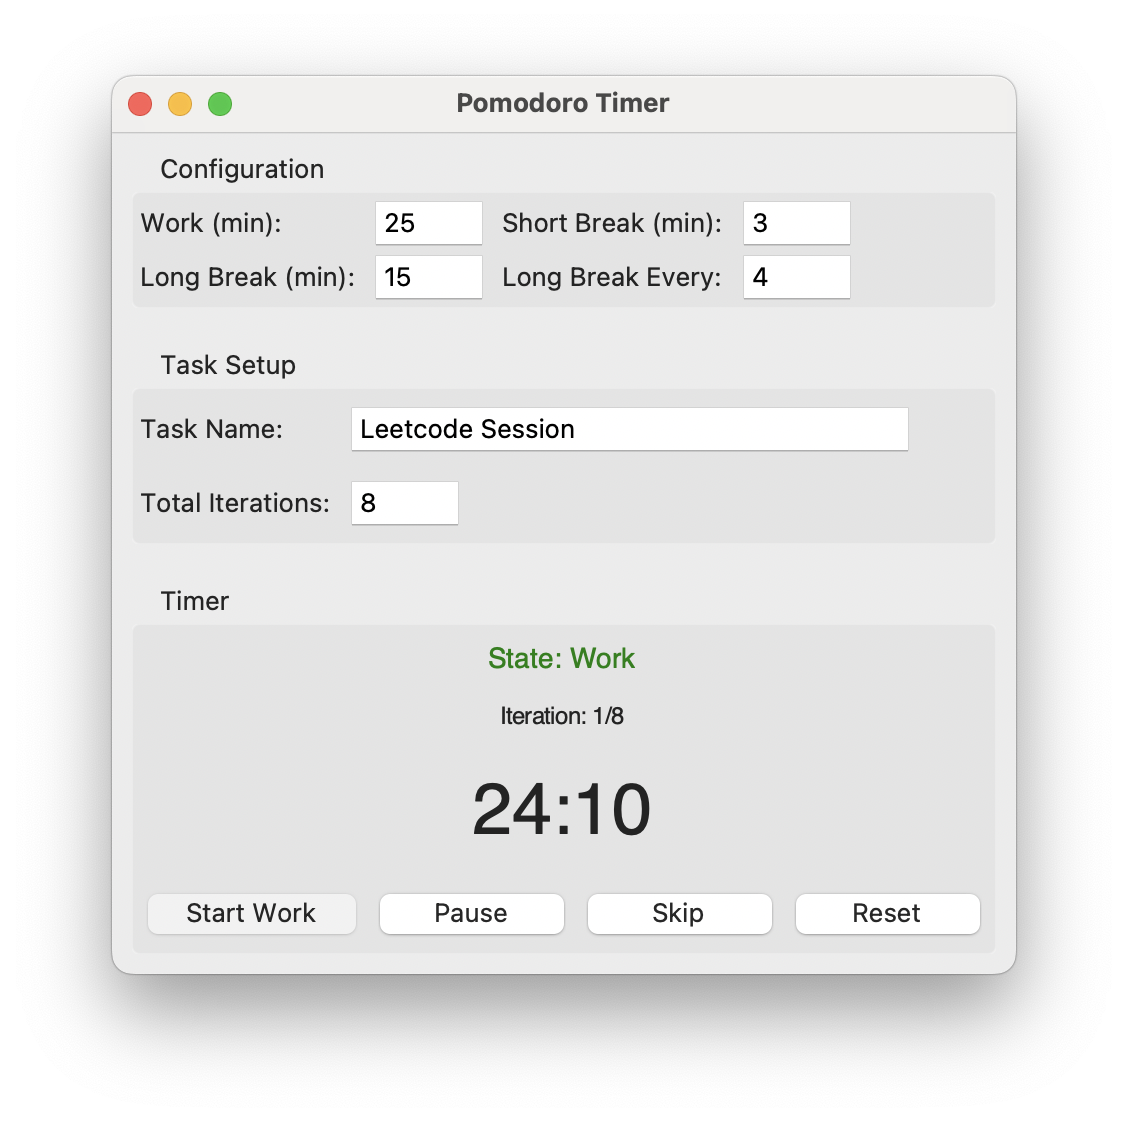
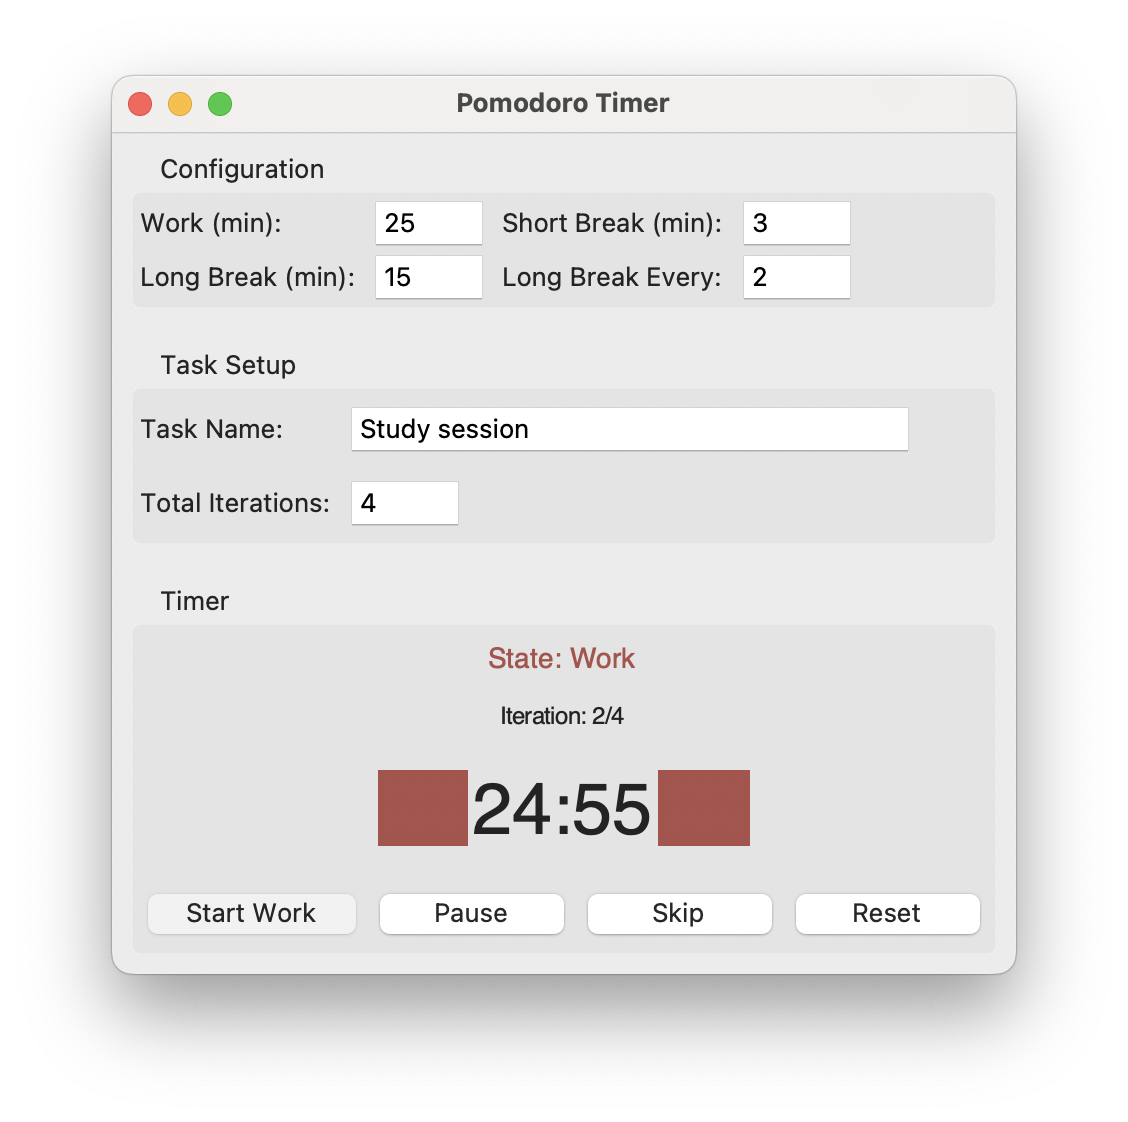
[update] visually noticeable indicator added

diff --git a/pomo_timer.py b/pomo_timer.py
@@ -113,8 +113,12 @@ class PomodoroApp:
         self.iteration_label = ttk.Label(timer_frame, text="Iteration: 0/0", font=("Helvetica", 12))
         self.iteration_label.grid(row=1, column=0, columnspan=4, pady=5)
 
+        self.indicator_label = tk.Label(timer_frame, text="", width=20, height=2)
+        self.indicator_label.grid(row=2, column=0, columnspan=4, pady=5)
+
         self.timer_label = ttk.Label(timer_frame, text="00:00", font=("Helvetica", 36))
         self.timer_label.grid(row=2, column=0, columnspan=4, pady=10)
+
 
         # Control buttons: Start, Pause/Resume, Skip, Reset.
         self.start_button = ttk.Button(timer_frame, text="Start Work", command=self.start_work)
@@ -132,16 +136,37 @@ class PomodoroApp:
     def update_iteration_label(self):
         self.iteration_label.config(text=f"Iteration: {self.current_iteration}/{self.total_iterations}")
 
+    #def change_state(self, new_state):
+    #    self.state = new_state
+    #    if new_state == "work":
+    #        self.state_label.config(text="State: Work", foreground="green")
+    #    elif new_state == "short_break":
+    #        self.state_label.config(text="State: Short Break", foreground="orange")
+    #    elif new_state == "long_break":
+    #        self.state_label.config(text="State: Long Break", foreground="blue")
+    #    else:
+    #        self.state_label.config(text="State: Idle", foreground="black")
     def change_state(self, new_state):
+        """Update the timer state and show a visual color change indicator."""
         self.state = new_state
+
+        # Set indicator color
         if new_state == "work":
-            self.state_label.config(text="State: Work", foreground="green")
+            self.state_label.config(text="State: Work", foreground="#AD504A")
+            self.indicator_label.config(bg="#AD504A")
+
         elif new_state == "short_break":
-            self.state_label.config(text="State: Short Break", foreground="orange")
+            self.state_label.config(text="State: Short Break", foreground="#5E895E")
+            self.indicator_label.config(bg="#5E895E")
+
         elif new_state == "long_break":
-            self.state_label.config(text="State: Long Break", foreground="blue")
-        else:
+            self.state_label.config(text="State: Long Break", foreground="#476F94")
+            self.indicator_label.config(bg="#476F94")
+
+        else:  # Idle state
             self.state_label.config(text="State: Idle", foreground="black")
+            self.indicator_label.config(bg="#E4E4E4")  # Gray for Idle
+
 
     def start_work(self):
         self.root.focus()  # Remove focus from entries
